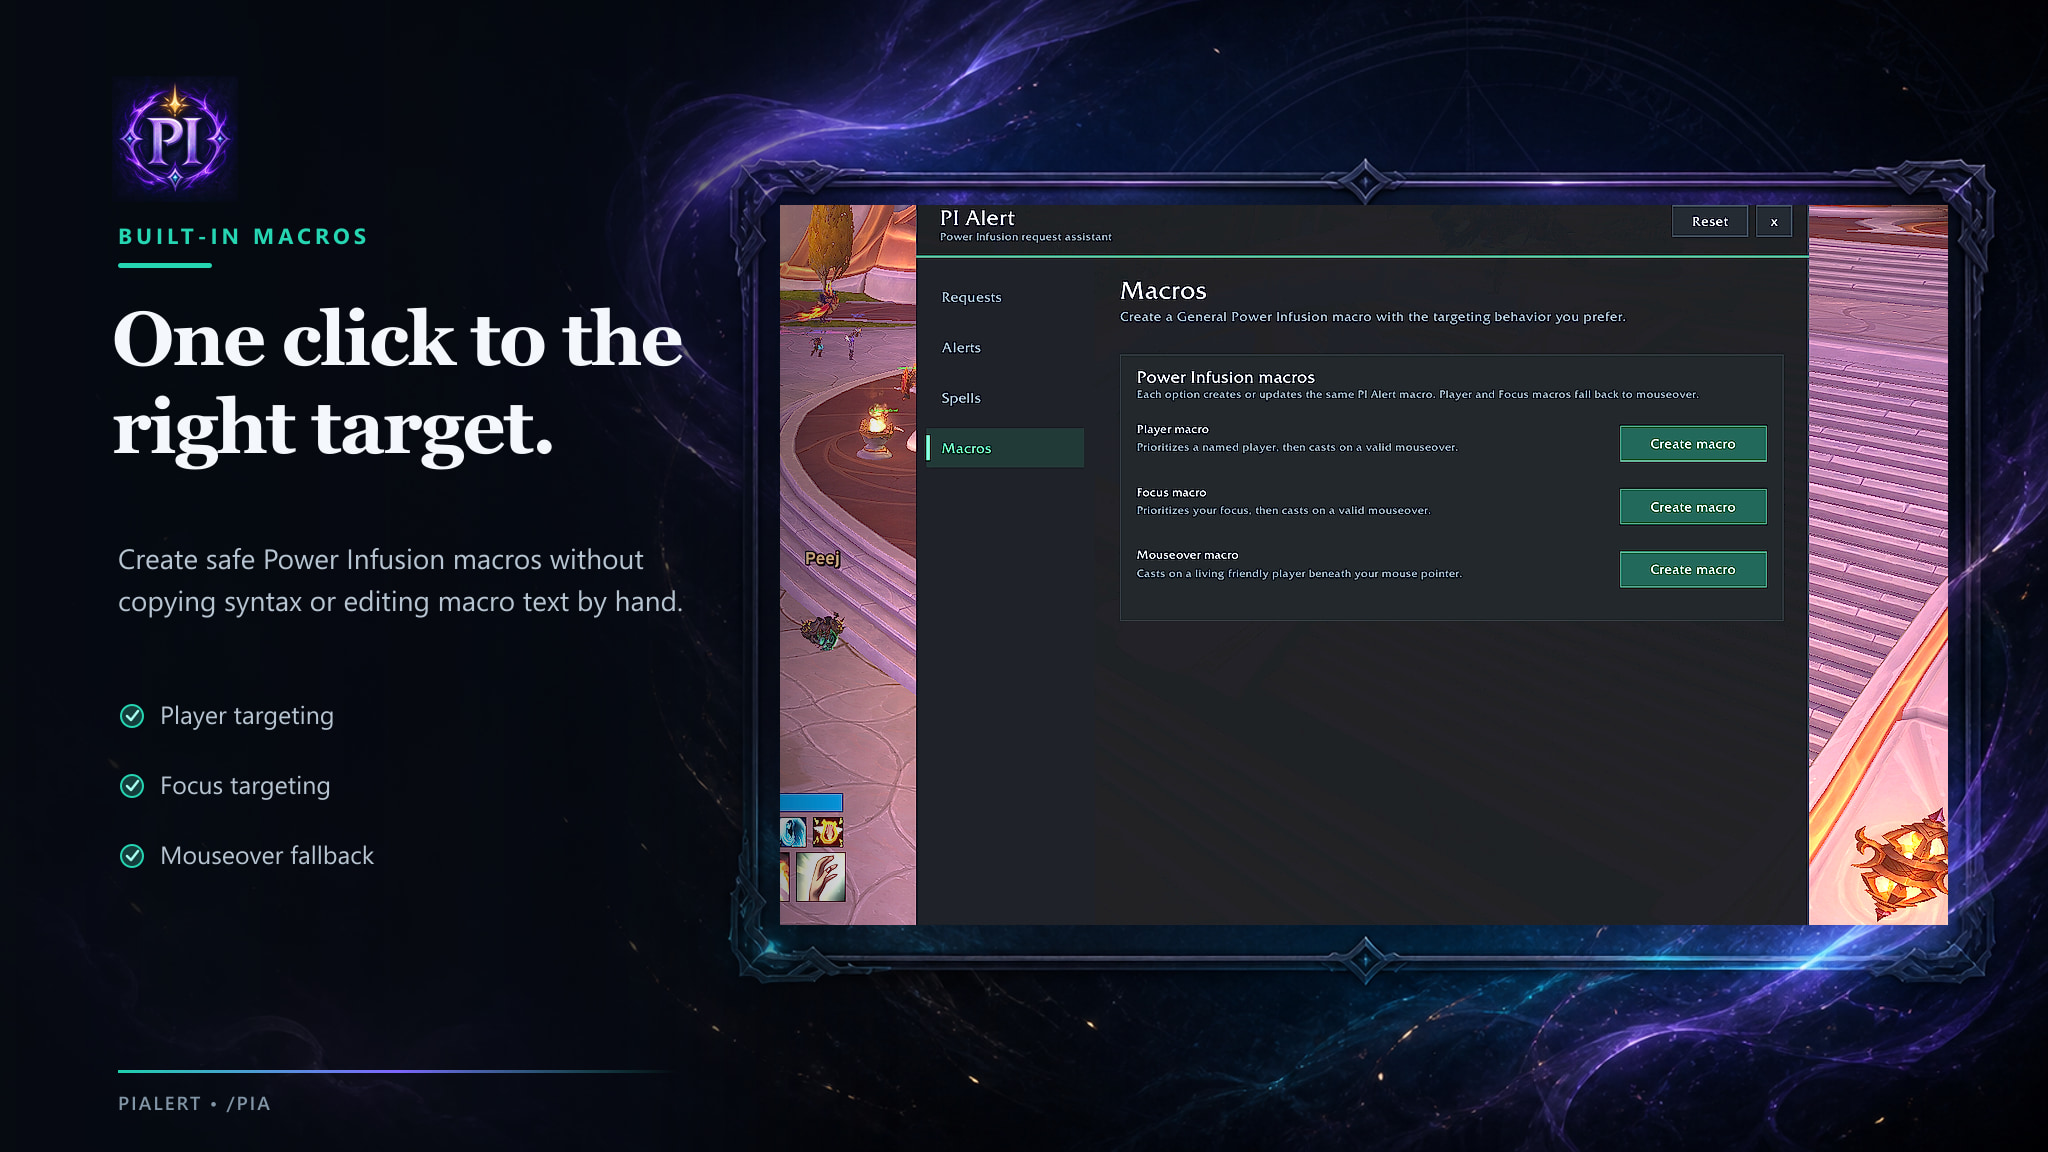
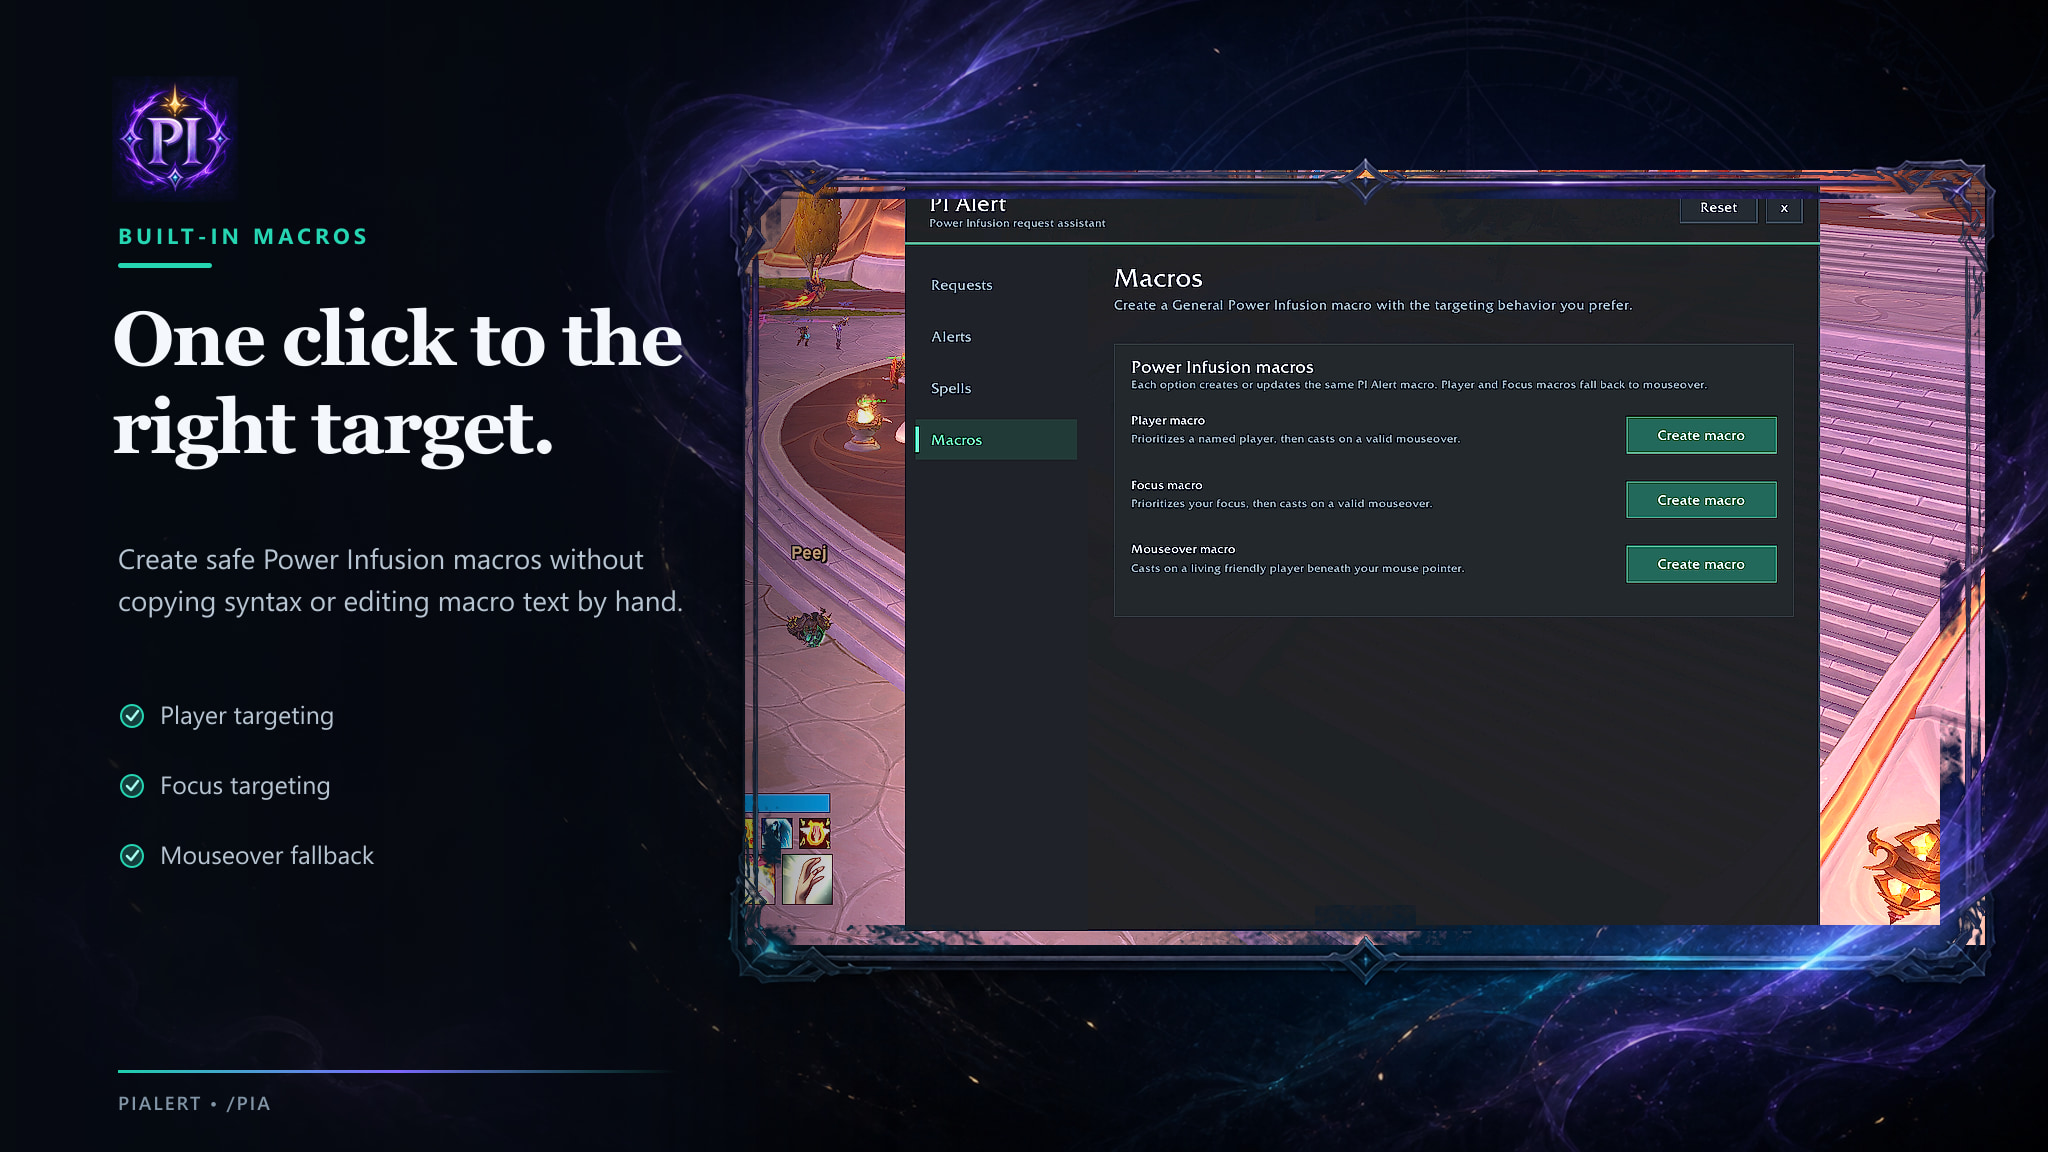
Extend screenshots beneath frame ornaments
Expand each screenshot to the full framed area and replace the rectangular backdrop cutout with a frame-art-only overlay. Preserve the generated corner pieces, rails, and center emblems above the screenshot while allowing the image to continue underneath them.

diff --git a/Branding/CurseForge/build-gallery.js b/Branding/CurseForge/build-gallery.js
@@ -25,7 +25,7 @@ const slides = [
     output: "01-pialert-hero.jpg",
     source: "WoWScrnShot_082726_170152.jpg",
     crop: { left: 1600, top: 210, width: 1856, height: 1160 },
-    shot: { x: 760, y: 185, width: 1210, height: 756 },
+    shot: { x: 745, y: 170, width: 1240, height: 775 },
     eyebrow: "POWER INFUSION ASSISTANT",
     title: ["Give PI to the", "right player."],
     body: [
@@ -39,7 +39,7 @@ const slides = [
     output: "02-alerts.jpg",
     source: "WoWScrnShot_082726_170024.jpg",
     crop: { left: 2659, top: 125, width: 1512, height: 945 },
-    shot: { x: 760, y: 185, width: 1210, height: 756 },
+    shot: { x: 745, y: 170, width: 1240, height: 775 },
     eyebrow: "CUSTOM ALERTS",
     title: ["Never miss", "a PI request."],
     body: [
@@ -52,7 +52,7 @@ const slides = [
     output: "03-requests.jpg",
     source: "WoWScrnShot_082726_170021.jpg",
     crop: { left: 2659, top: 125, width: 1512, height: 945 },
-    shot: { x: 760, y: 185, width: 1210, height: 756 },
+    shot: { x: 745, y: 170, width: 1240, height: 775 },
     eyebrow: "REQUEST CONTROL",
     title: ["You decide who", "can ask for PI."],
     body: [
@@ -65,7 +65,7 @@ const slides = [
     output: "04-spells.jpg",
     source: "WoWScrnShot_082726_170044.jpg",
     crop: { left: 2659, top: 125, width: 1512, height: 945 },
-    shot: { x: 760, y: 185, width: 1210, height: 756 },
+    shot: { x: 745, y: 170, width: 1240, height: 775 },
     eyebrow: "COOLDOWN TRACKING",
     title: ["Track the", "cooldowns that", "matter."],
     body: [
@@ -78,7 +78,7 @@ const slides = [
     output: "05-macros.jpg",
     source: "WoWScrnShot_082726_170047.jpg",
     crop: { left: 2659, top: 125, width: 1512, height: 945 },
-    shot: { x: 760, y: 185, width: 1210, height: 756 },
+    shot: { x: 745, y: 170, width: 1240, height: 775 },
     eyebrow: "BUILT-IN MACROS",
     title: ["One click to the", "right target."],
     body: [
@@ -173,17 +173,46 @@ let frameOverlayPromise;
 
 function frameOverlayBuffer() {
   if (!frameOverlayPromise) {
-    const mask = Buffer.from(`
-      <svg width="${WIDTH}" height="${HEIGHT}" xmlns="http://www.w3.org/2000/svg">
-        <path d="M 0 0 H ${WIDTH} V ${HEIGHT} H 0 Z M 780 205 H 1948 V 925 H 780 Z" fill="white" fill-rule="evenodd"/>
-      </svg>
-    `);
-    frameOverlayPromise = sharp(BACKGROUND)
-      .resize(WIDTH, HEIGHT, { fit: "cover" })
-      .ensureAlpha()
-      .composite([{ input: mask, blend: "dest-in" }])
-      .png()
-      .toBuffer();
+    frameOverlayPromise = (async () => {
+      const source = await sharp(BACKGROUND)
+        .resize(WIDTH, HEIGHT, { fit: "cover" })
+        .ensureAlpha()
+        .raw()
+        .toBuffer({ resolveWithObject: true });
+      const overlay = Buffer.alloc(source.data.length);
+
+      for (let y = 0; y < HEIGHT; y += 1) {
+        for (let x = 0; x < WIDTH; x += 1) {
+          const inFrameBounds = x >= 690 && x <= 2015 && y >= 130 && y <= 995;
+          const inFrameBand = inFrameBounds && (
+            y <= 198 ||
+            y >= 925 ||
+            x <= 780 ||
+            x >= 1940 ||
+            (x >= 1315 && x <= 1415 && y <= 220) ||
+            (x >= 1315 && x <= 1415 && y >= 905)
+          );
+          if (!inFrameBand) continue;
+
+          const index = (y * WIDTH + x) * 4;
+          const red = source.data[index];
+          const green = source.data[index + 1];
+          const blue = source.data[index + 2];
+          const peak = Math.max(red, green, blue);
+          const chroma = peak - Math.min(red, green, blue);
+          const alpha = Math.max(0, Math.min(255, (peak - 48) * 12 + chroma * 3));
+
+          overlay[index] = red;
+          overlay[index + 1] = green;
+          overlay[index + 2] = blue;
+          overlay[index + 3] = alpha;
+        }
+      }
+
+      return sharp(overlay, {
+        raw: { width: WIDTH, height: HEIGHT, channels: 4 },
+      }).png().toBuffer();
+    })();
   }
   return frameOverlayPromise;
 }
